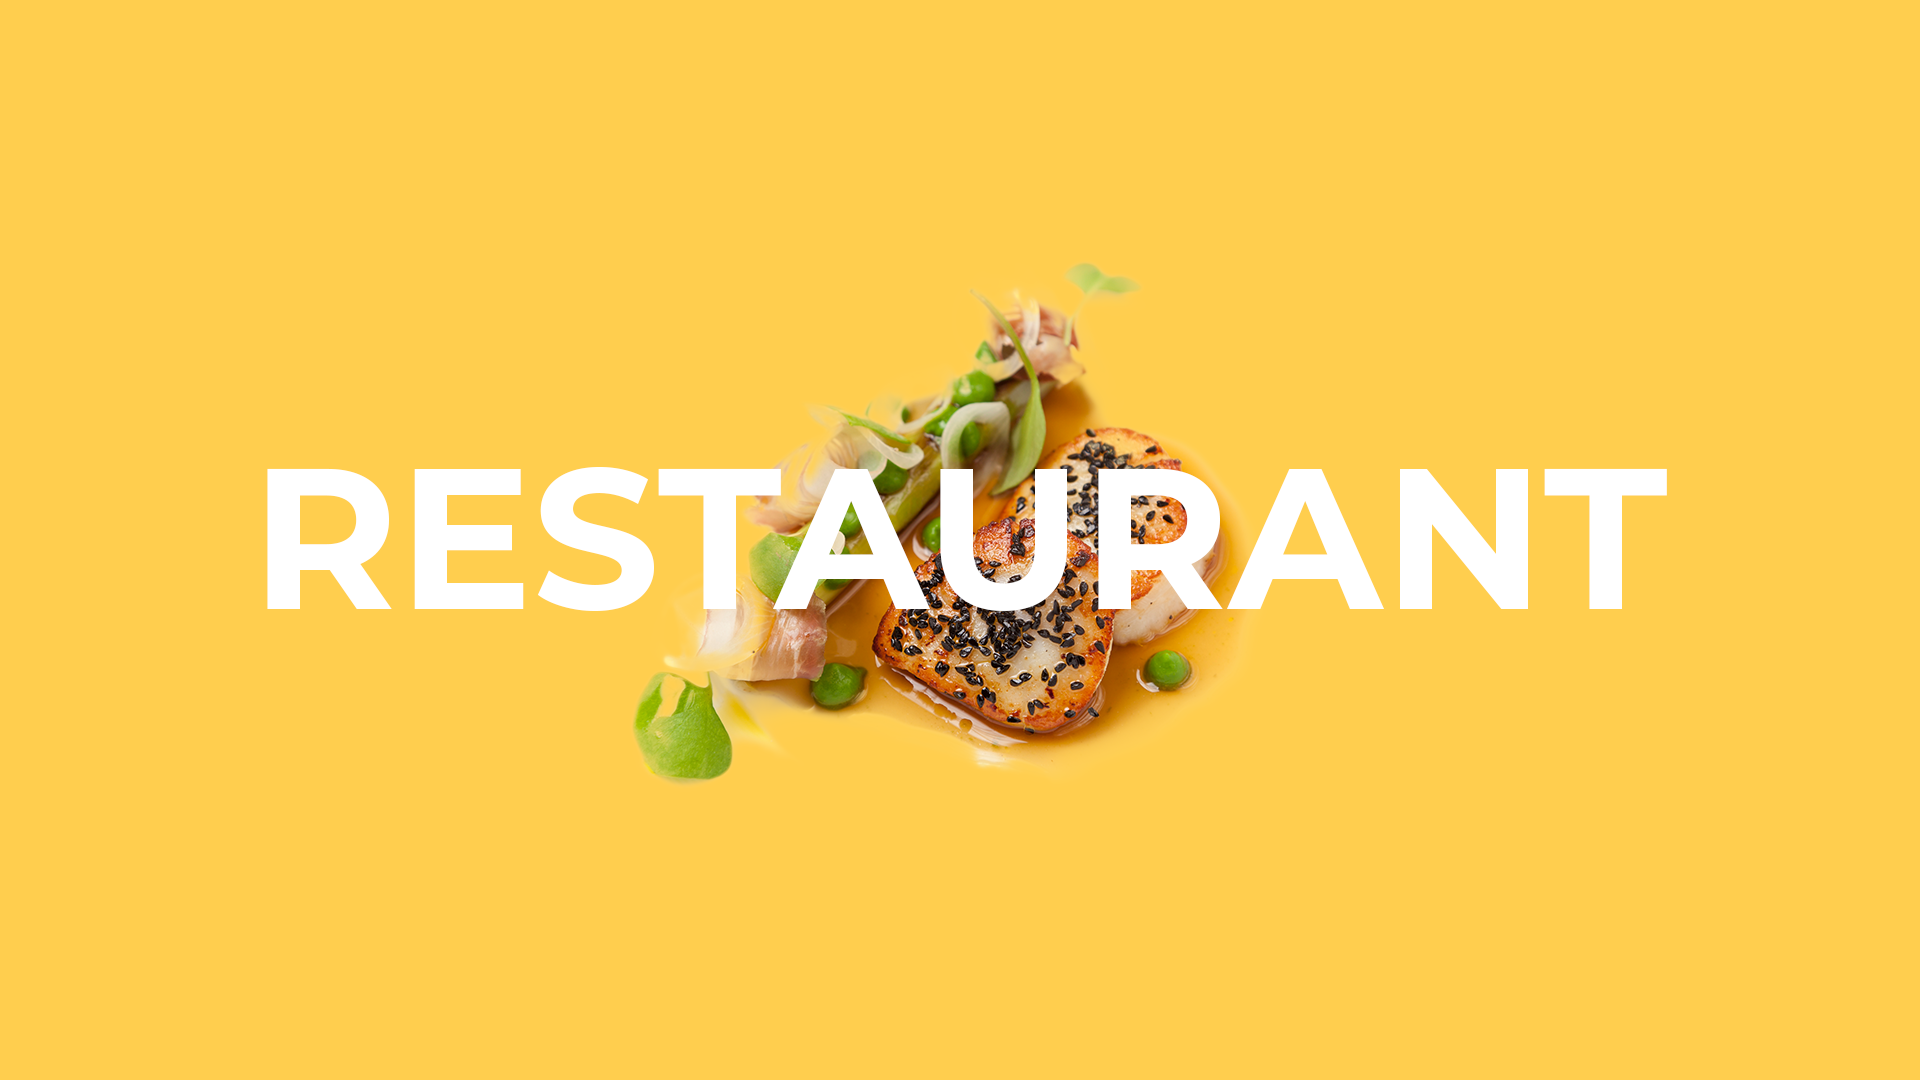
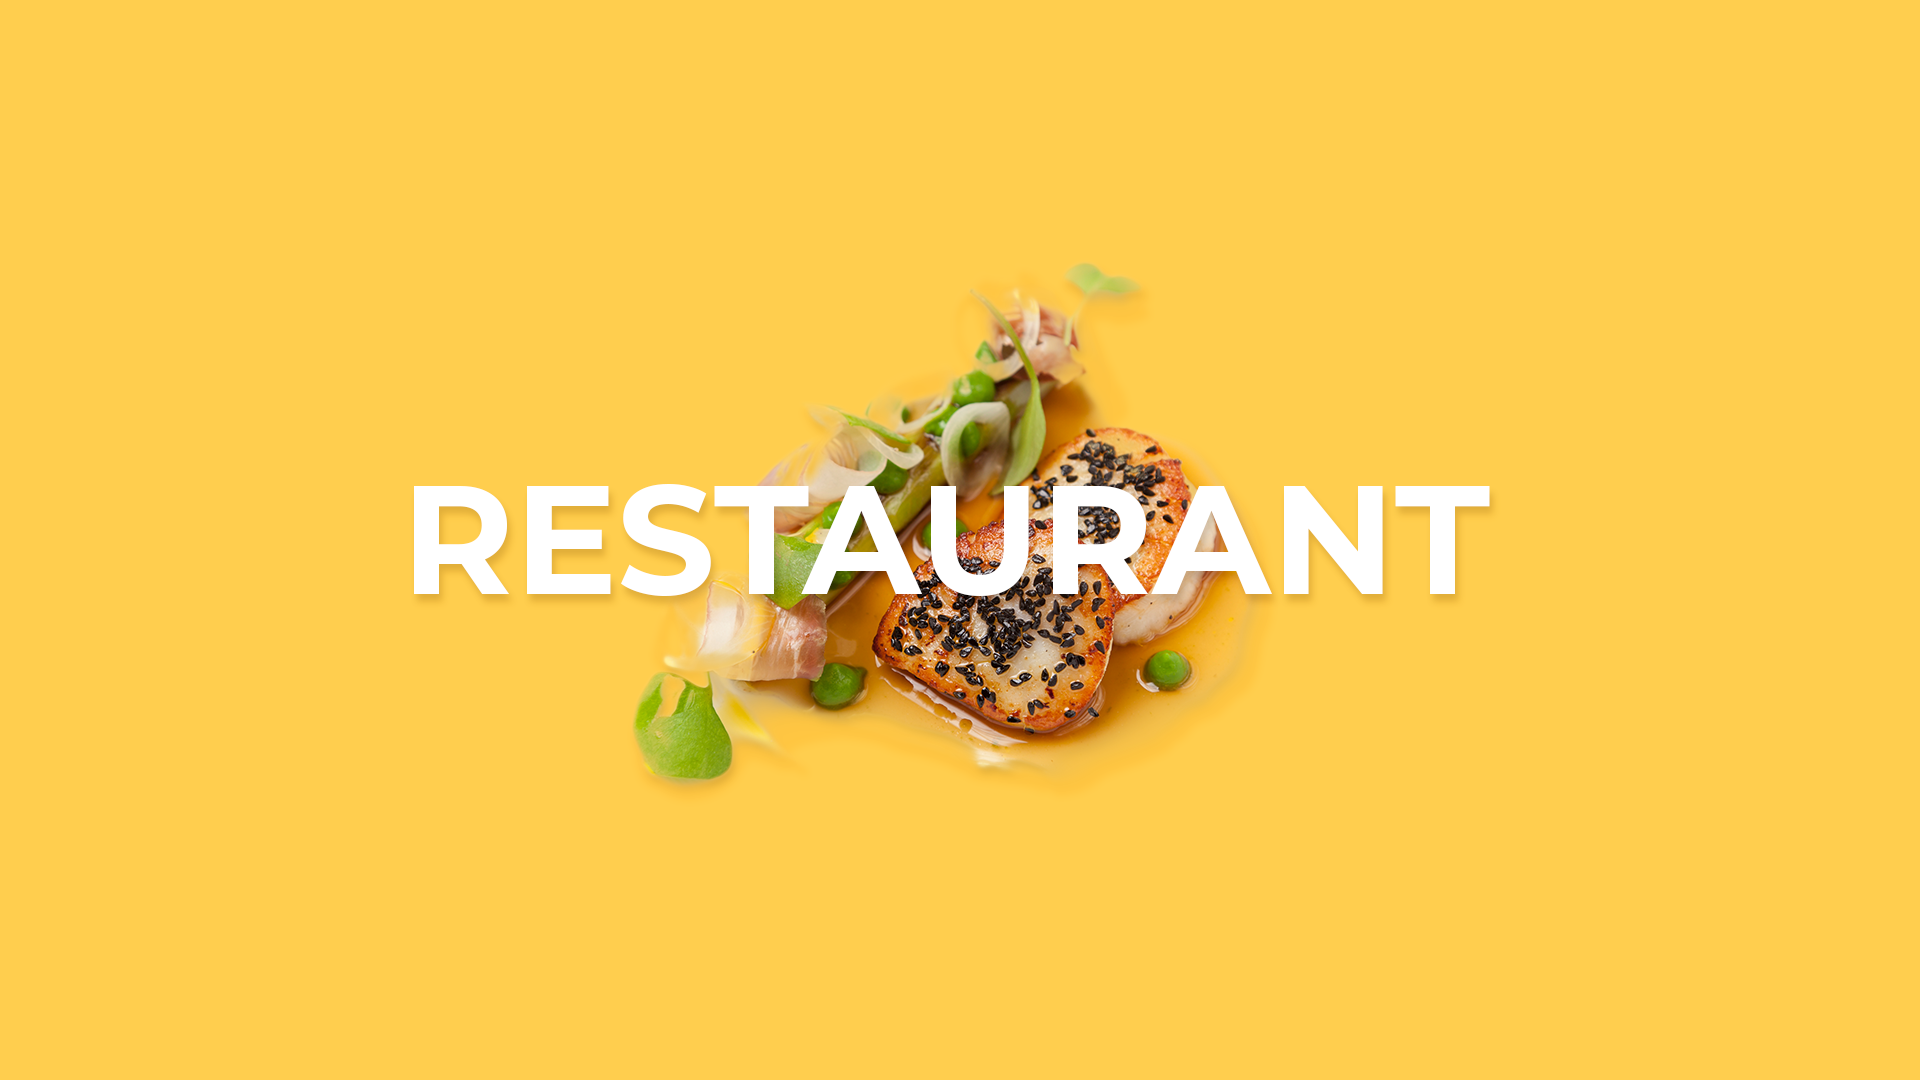
Updated parallax images

Changed region(s): [[0.125, 0.4278, 0.875, 0.5806]]

diff --git a/templates/pages/booking.html b/templates/pages/booking.html
@@ -3,7 +3,7 @@
 {% load static %}
 
 {% block content %}
-    <div class="p-section-2 parallax-window" data-parallax="scroll" data-image-src="{% static 'img/restaurant.png' %}">
+    <div class="p-section-2 parallax-window" data-parallax="scroll" data-image-src="{% static 'img/reservation.png' %}">
         <div class="container">
             
         </div>
@@ -43,9 +43,22 @@
                 <form method="post" class="booking-form">
                     {% csrf_token %}
                     {{ form }}
-                    <button class="btn btn-submit btn-form">Find a table</button>
+                    <button class="btn btn-primary btn-form">Find a table</button>
                 </form>
             </div>
+        </div>
+        <div class="container">
+            <div class="col-6 pr-2 text-right">
+                <h2>Private dining</h2>
+                <hr>
+                <p class="mb-2">“The Meazzanine Room” features a temperature-controlled wine cellar, displays of more wine and a private atmosphere. A semi-private room, “Barbaresco,” is available for meetings, birthdays and other occasions.</p>
+                <p class="mb-2">“The Meazzanine Room” seats up to 50 guests. Please contact us for further information.</p>
+                <a href="" class="btn btn-primary">Contact us</a>
+            </div>
+            <div class="col-6 pl-2">
+                <img src="{% static 'img/private-dining.png' %}" alt="">
+            </div>
+        </div>
             
         </div>
     </div>

diff --git a/static/css/main.css b/static/css/main.css
@@ -69,6 +69,7 @@ a {
     text-align: center;
     line-height: normal;
     color: inherit;
+    outline: none;
     cursor: pointer;
     transition: all .2s ease-out;
     -webkit-transition: all .2s ease-out;
@@ -86,6 +87,7 @@ a {
 .btn-primary,
 .btn-submit {
     border: 2px solid #333;
+    background: transparent;
 }
 
 .btn-primary:hover {

diff --git a/static/css/navbar.css b/static/css/navbar.css
@@ -38,7 +38,7 @@ nav .list-item > a {
 }
 
 nav .list-item > a:hover {
-    color: #333;
+    color: var(--secondary-color);
 }
 
 .nav-scrolled {

diff --git a/static/css/booking.css b/static/css/booking.css
@@ -98,6 +98,7 @@
 
 .form-wrapper {
     width: 100%;
+    margin-bottom: 100px;
 }
 
 .booking-form {
